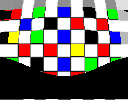
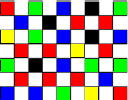
!!! This is the key moment. After adding LineBuffers logic to img_corr_loop.py the output images is truncated. Need to figure out why

diff --git a/hls_brl_corr1/src/img_corr_loop.py b/hls_brl_corr1/src/img_corr_loop.py
@@ -2,22 +2,47 @@ import numpy as np
 import os
 import cv2
 import time
+from collections import deque
 
 
 #################################################################################
-def barrel_distortion_correction(image, k1_float):
+def barrel_distortion_correction_streaming(image_stream, height, width, k1_float, num_line_buffers):
   """
-  Barrel distortion using a reverse mapping approach with simulated fixed-point arithmetic.
-  This version uses loops to better match HDL/C++ implementation.
+  Simulates barrel distortion correction with a true streaming line buffer architecture.
+  The function processes the image line by line, and can only access pixels
+  from the lines currently held in the buffer.
 
   Args:
-    image: Input image (numpy array)
-    k1_float: Primary distortion coefficient (floating-point)
-
-  Returns:
-    Corrected image (numpy array)
+    image_stream: An iterator that yields one line of the image at a time.
+    height: The total height of the source image.
+    width: The total width of the source image.
+    k1_float: Primary distortion coefficient (floating-point).
+    num_line_buffers: The number of physical line buffers available.
   """
-  height, width = image.shape[:2]
+  # --- True Streaming Line Buffer ---
+  # This buffer holds the most recent lines from the stream.
+  line_buffer = deque(maxlen=num_line_buffers)
+  # Tracks the starting line number of the buffer window.
+  buffer_start_line = 0
+
+  def get_pixel_from_streaming_buffer(y_coord, x_coord):
+    """
+    Fetches a pixel from the streaming line buffer.
+    Returns the pixel value if the line is within the current buffer window,
+    otherwise returns 0 (black) to indicate inaccessible data.
+    """
+    y_nn = int(np.clip(y_coord, 0, height - 1))
+    x_nn = int(np.clip(x_coord, 0, width - 1))
+
+    # Check if the required line is within the current buffer's range.
+    if buffer_start_line <= y_nn < buffer_start_line + len(line_buffer):
+      # The line is in the buffer. Calculate its index within the deque.
+      buffer_index = y_nn - buffer_start_line
+      return line_buffer[buffer_index][x_nn]
+    else:
+      # The line is not accessible (either too old or not yet received).
+      return 0
+  # --- End of Streaming Line Buffer ---
 
   # Fixed-point configuration
   FRACT_BITS = 16
@@ -29,9 +54,18 @@ def barrel_distortion_correction(image, k1_float):
   y_c = int(height / 2 * SCALE)
 
   # Create an empty output image
-  corrected_image = np.zeros_like(image)
+  corrected_image = np.zeros((height, width, 3), dtype=np.uint8)
 
-  for y_d_int in range(height):
+  # Process the image stream line by line
+  for y_d_int, current_line in enumerate(image_stream):
+    # Add the new line to the buffer. The deque will handle eviction if full.
+    line_buffer.append(current_line)
+
+    # Update the starting line number of our buffer window.
+    if len(line_buffer) == num_line_buffers:
+      if y_d_int >= num_line_buffers -1:
+        buffer_start_line = y_d_int - num_line_buffers + 1
+
     for x_d_int in range(width):
       # Scale destination coordinates
       x_d = x_d_int * SCALE
@@ -41,20 +75,18 @@ def barrel_distortion_correction(image, k1_float):
       x = ((x_d - x_c) * SCALE) // x_c
       y = ((y_d - y_c) * SCALE) // y_c
 
-      # r_sq = x*x + y*y (has 2*FRACT_BITS fractional bits)
+      # r_sq has 2*FRACT_BITS fractional bits
       r_sq = x*x + y*y
 
-      # r = sqrt(r_sq) (has FRACT_BITS fractional bits)
+      # r has FRACT_BITS fractional bits
       r = int(np.sqrt(r_sq))
 
       # Radial distortion correction (inverse model)
-      # r_u = r * (1 + k1 * r**2)
       r_sq_scaled = r_sq >> FRACT_BITS # scale to FRACT_BITS
       term = (k1 * r_sq_scaled) >> FRACT_BITS
       r_u = (r * (SCALE + term)) >> FRACT_BITS
 
       if r != 0:
-        # x_u_norm = (x * r_u) / r
         x_u_norm = (x * r_u) // r
         y_u_norm = (y * r_u) // r
 
@@ -68,14 +100,8 @@ def barrel_distortion_correction(image, k1_float):
       x_u_unscaled = x_u >> FRACT_BITS
       y_u_unscaled = y_u >> FRACT_BITS
 
-      # Nearest-neighbor sampling
-      x_nn = int(np.clip(x_u_unscaled, 0, width - 1))
-      y_nn = int(np.clip(y_u_unscaled, 0, height - 1))
-
-      if 0 <= x_nn < width and 0 <= y_nn < height:
-        corrected_image[y_d_int, x_d_int] = image[y_nn, x_nn]
-      else:
-        corrected_image[y_d_int, x_d_int] = 0
+      # Get pixel from the streaming buffer.
+      corrected_image[y_d_int, x_d_int] = get_pixel_from_streaming_buffer(y_u_unscaled, x_u_unscaled)
 
   return corrected_image
 
@@ -85,23 +111,21 @@ def main():
   # Input and output file paths
   dir = 'D:/work/vivado/pynq/barrel_distortion_correction/hls_brl_corr1/src/'
   img = ('img_128x100.png', 'img4_250x167.png', 'img_2x3.png')
-  input_file  = dir +  'img_in/' + img[1]
-  output_file = dir + 'img_out/' + img[1]
-
+  input_file  = dir +  'img_in/' + img[0]
+  output_file = dir + 'img_out/' + img[0]
 
   # Distortion parameters
-  k1 =-0.06  # Adjust this value based on your needs
+  k1 = +0.00
+  # Set a more realistic number of line buffers for a hardware implementation
+  num_line_buffers = 10 # Try with 1, 10, 64, etc. to see the effect
 
   try:
-    # Create output directory if it doesn't exist
     output_dir = os.path.dirname(output_file)
     if output_dir and not os.path.exists(output_dir):
       os.makedirs(output_dir)
 
-    # Read input image
     if not os.path.exists(input_file):
       print(f"Error: Input file '{input_file}' not found.")
-      print("Please ensure the input image exists.")
       return
 
     image = cv2.imread(input_file)
@@ -109,13 +133,19 @@ def main():
       print(f"Error: Could not read image from '{input_file}'")
       return
 
+    height, width = image.shape[:2]
+
+    # Create a generator to act as the image stream
+    image_stream = (image[y] for y in range(height))
+
     print(f"Processing image: {input_file}")
-    print(f"Image dimensions: {image.shape[1]}x{image.shape[0]}")
+    print(f"Image dimensions: {width}x{height}")
     print(f"K1 coefficient: {k1}")
+    print(f"Simulating with {num_line_buffers} streaming line buffer(s).")
 
     start_time = time.time()
-    # Apply barrel distortion correction
-    corrected_image = barrel_distortion_correction(image, k1)
+    # Apply barrel distortion correction using the streaming model
+    corrected_image = barrel_distortion_correction_streaming(image_stream, height, width, k1, num_line_buffers)
     end_time = time.time()
 
     print(f"Processing time: {end_time - start_time:.4f} seconds")
